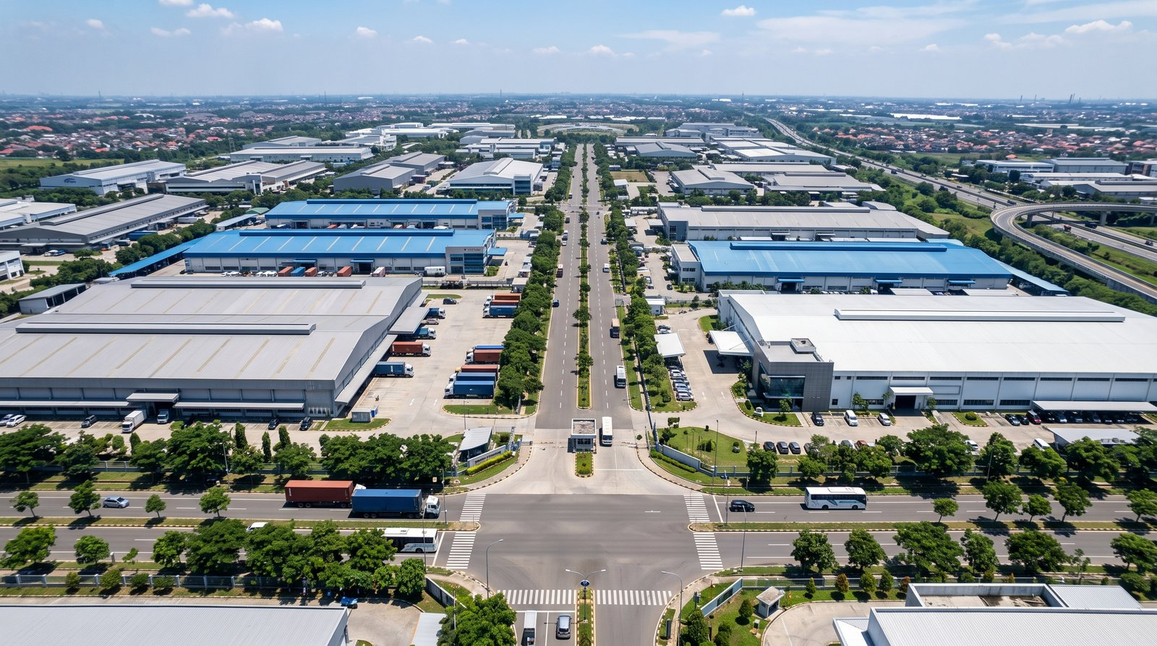
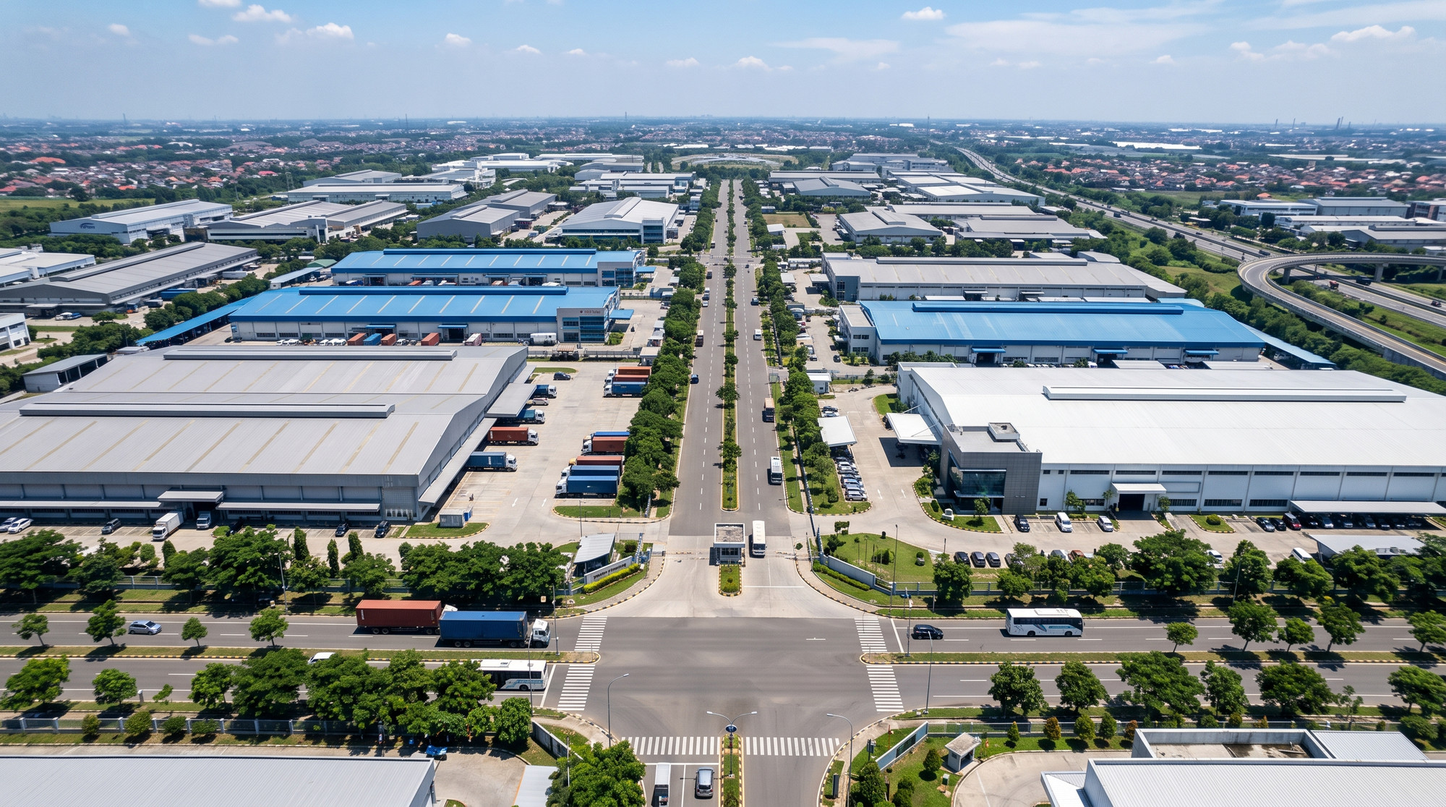
perf(images): naikkan resolusi dan kualitas gambar responsif agar tajam di mobile

diff --git a/src/components/common/Photo.jsx b/src/components/common/Photo.jsx
@@ -4,9 +4,8 @@ import PlaceholderImage from "./PlaceholderImage"
 /**
  * Foto dari src/assets/images berdasarkan nama ("galeri/gal-01"), disajikan sebagai WebP responsif.
  * Bila berkasnya belum ada, tampil PlaceholderImage supaya tata letak tetap utuh. Ukuran tampil ditentukan
- * lewat className pemanggil; sizes sengaja sedikit di bawah lebar tampil sebenarnya (misalnya 65vw untuk gambar selebar
- * layar di ponsel) agar layar beresolusi tinggi tidak memilih ukuran terbesar. Gambar sudah berupa render ilustratif,
- * jadi selisih ketajamannya nyaris tidak terlihat.
+ * lewat className pemanggil; sizes harus sama dengan lebar tampil sebenarnya (hitung dari tata letaknya) supaya
+ * peramban memilih varian yang tepat: terlalu kecil membuat gambar buram, terlalu besar membuang kuota.
  * alt kosong berarti gambar dekoratif (isinya sudah disebut teks di dekatnya).
  */
 export default function Photo({

diff --git a/src/utils/images.js b/src/utils/images.js
@@ -2,11 +2,11 @@
 // Foto asli cukup ditaruh dengan nama yang sama (jpg, png, webp, atau avif) dan menggantikan gambar yang ada,
 // tanpa mengubah kode. Nama yang belum punya berkas akan jatuh ke komponen placeholder.
 //
-// Setiap gambar diubah saat build menjadi WebP dalam empat ukuran (vite-imagetools), sehingga ponsel hanya
+// Setiap gambar diubah saat build menjadi WebP dalam lima ukuran (vite-imagetools), sehingga ponsel hanya
 // mengunduh ukuran yang dibutuhkan layarnya. Foto sumber boleh besar; yang dikirim ke pengunjung tetap kecil.
 const files = import.meta.glob("../assets/images/**/*.{jpg,jpeg,png,webp,avif}", {
   eager: true,
-  query: { w: "480;800;1200;1600", format: "webp", quality: 72, as: "srcset" },
+  query: { w: "480;800;1200;1600;2000", format: "webp", quality: 82, as: "srcset" },
   import: "default",
 })
 

diff --git a/src/components/galeri/GalleryGrid.jsx b/src/components/galeri/GalleryGrid.jsx
@@ -13,7 +13,7 @@ export default function GalleryGrid({ items, onSelect }) {
           {/* Zoom 5% hanya pada isi thumbnail: menandai bahwa seluruh kotak bisa diklik untuk dibuka besar */}
           <Photo
             name={`galeri/${item.id}`}
-            sizes="(min-width: 640px) 370px, 36vw"
+            sizes="(min-width: 640px) 370px, calc(50vw - 26px)"
             alt={item.alt}
             label={item.label}
             category={item.kategori}

diff --git a/src/components/unit/UnitList.jsx b/src/components/unit/UnitList.jsx
@@ -77,7 +77,7 @@ export default function UnitList({ units, initialSelectedId }) {
                   <Photo
                     key={gambar.id}
                     name={`unit/${gambar.id}`}
-                    sizes="(min-width: 768px) 227px, 30vw"
+                    sizes="(min-width: 768px) 227px, 33vw"
                     alt={gambar.alt}
                     label={gambar.alt}
                     category="eksterior"

diff --git a/src/components/home/Highlights.jsx b/src/components/home/Highlights.jsx
@@ -29,7 +29,7 @@ export default function Highlights() {
             >
               <Photo
                 name={item.gambar}
-                sizes="(min-width: 768px) 552px, 65vw"
+                sizes="(min-width: 768px) 552px, calc(100vw - 40px)"
                 label={item.judul}
                 category={index % 2 === 0 ? "lingkungan" : "fasilitas"}
                 className="h-56 w-full rounded-2xl"

diff --git a/src/components/home/Hero.jsx b/src/components/home/Hero.jsx
@@ -51,7 +51,7 @@ export default function Hero() {
           label={`Foto Kawasan ${company.namaPerumahan}`}
           category="eksterior"
           priority
-          sizes="(min-width: 768px) 560px, 65vw"
+          sizes="(min-width: 768px) 560px, calc(100vw - 40px)"
           className="h-72 md:h-112 w-full rounded-3xl"
         />
         <ImageNote className="mt-2" />

diff --git a/src/components/unit/UnitCard.jsx b/src/components/unit/UnitCard.jsx
@@ -13,7 +13,7 @@ export default function UnitCard({ unit, onPilih, horizontal = false }) {
     >
       <Photo
         name={`unit/${unit.gambar[0].id}`}
-        sizes="(min-width: 768px) 576px, 65vw"
+        sizes="(min-width: 768px) 576px, calc(100vw - 40px)"
         alt={unit.gambar[0].alt}
         label={unit.nama}
         category="eksterior"

diff --git a/README.md b/README.md
@@ -61,11 +61,11 @@ penuh) disimpan di `private/`, yang tidak ikut ke Git maupun hosting.
 Nama yang belum punya berkas otomatis tampil sebagai placeholder. Teks alternatif foto ada di berkas data yang sama,
 sesuaikan dengan isi foto asli.
 
-**Kompresi otomatis.** Saat `npm run build`, setiap gambar diubah menjadi WebP dalam empat ukuran (480, 800, 1200, 1600
-piksel) oleh `vite-imagetools` (diatur di `vite.config.js` dan `src/utils/images.js`), dan peramban memilih ukuran yang
-sesuai layarnya lewat `srcset`. Karena itu foto sumber tidak perlu dikompres manual: cukup lebar minimal 1600px dan
-format JPG atau PNG. Komponen `Photo` menerima prop `sizes`; isi dengan perkiraan lebar tampil gambar (sedikit di bawah
-lebar sebenarnya di ponsel) agar ponsel tidak mengunduh ukuran yang terlalu besar. Logo diubah ke WebP lewat
+**Kompresi otomatis.** Saat `npm run build`, setiap gambar diubah menjadi WebP dalam lima ukuran (480, 800, 1200, 1600,
+2000 piksel) oleh `vite-imagetools` (diatur di `vite.config.js` dan `src/utils/images.js`), dan peramban memilih ukuran yang
+sesuai layarnya lewat `srcset`. Karena itu foto sumber tidak perlu dikompres manual: cukup lebar minimal 2000px dan
+format JPG atau PNG. Komponen `Photo` menerima prop `sizes`; isi dengan lebar tampil gambar yang sebenarnya (misalnya
+`calc(100vw - 40px)` untuk gambar selebar layar di ponsel). Terlalu kecil membuat gambar buram. Logo diubah ke WebP lewat
 parameter di URL impor, misalnya `logo-full.png?w=500&format=webp&quality=85`.
 
 ## Warna dan Mode Gelap
